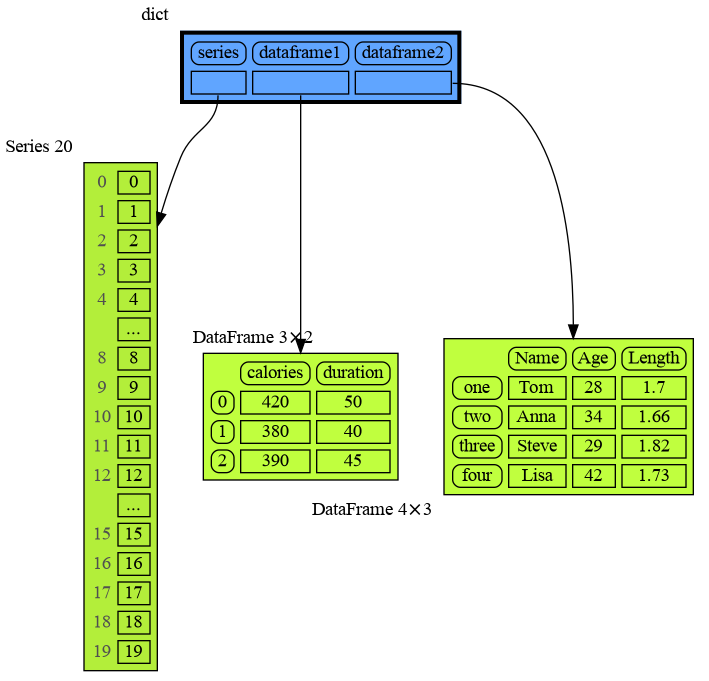
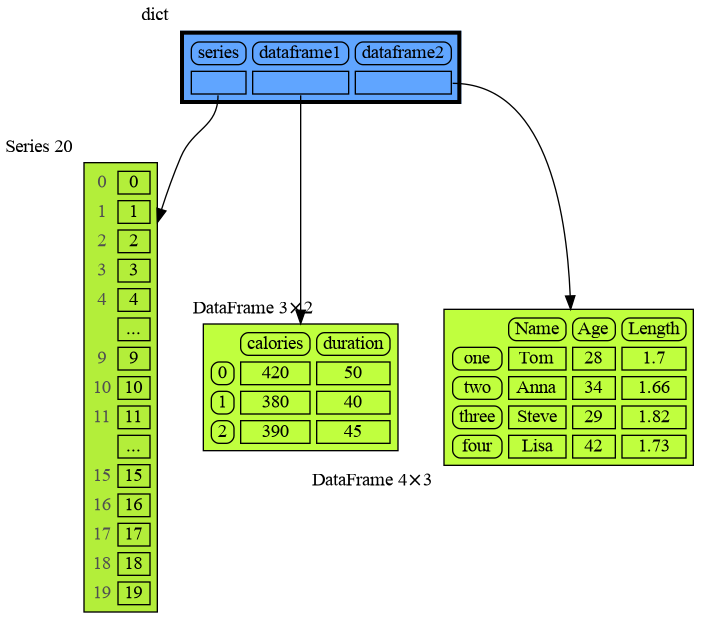
introspection depth control added

diff --git a/memory_graph/config_default.py b/memory_graph/config_default.py
@@ -16,15 +16,11 @@ import memory_graph.utils as utils
 
 import types
 
-""" The maximum depth of nodes in the graph. When the graph gets too big set this to a small positive number. A `✂` symbol indictes where the graph is cut short. """
-config.max_graph_depth = 12
-config.graph_cut_symbol = '✂'
-config.max_missing_edges = 3
 
 """ The maximum length of strings shown in the graph. Longer strings will be truncated. """
 config.max_string_length = 42
 
-""" The number of references keeping child nodes in order versus other references pullen them out. """
+""" The number of references keeping child nodes in order versus other references pulling them out. """
 config.graph_stability = 10
 
 """ Types that by default will not have references pointing to them in the graph but instead will be visualized in the node of their parent. """
@@ -94,7 +90,19 @@ config.type_to_vertical_orientation = {
 
 """ Slicer objects for different types. """
 config.type_to_slicer = {
-    Node_Linear: Slicer(5,5,5),
-    Node_Key_Value: Slicer(5,5,5),
-    Node_Table: (Slicer(3,3,3), Slicer(3,3)),
+    Node_Linear: Slicer(5,3,5),
+    Node_Key_Value: Slicer(5,3,5),
+    Node_Table: (Slicer(3,2,3), Slicer(3,2,3)),
 }
+
+""" The maximum depth of nodes in the graph. When the graph gets too big set this to a small positive number. A `✂` symbol indictes where the graph is cut short. """
+config.max_graph_depth = 12
+config.graph_cut_symbol = '✂'
+
+
+""" Maximum introspection depth for different types. """
+config.type_to_depth = {
+    }
+
+""" Maximum number of missing edges that are shown. """
+config.max_missing_edges = 2

diff --git a/memory_graph/memory_to_nodes.py b/memory_graph/memory_to_nodes.py
@@ -45,6 +45,13 @@ def read_nodes(data):
 
 # --------------------------------------------------------------------------------------------
 
+def get_max_type_depth(node_id, node):
+    if node_id in config.type_to_depth:
+        return config.type_to_depth[node_id]
+    elif node.get_type() in config.type_to_depth:
+        return config.type_to_depth[node.get_type()]
+    return None
+
 def slice_nodes(nodes, root_id, max_graph_depth):
 
     def slice_nodes_recursive(nodes, node_id, id_to_slices, max_graph_depth):
@@ -61,6 +68,9 @@ def slice_nodes(nodes, root_id, max_graph_depth):
                 id_to_slices[node_id] = slices
                 if not node.is_hidden_node():
                     max_graph_depth -= 1
+                max_type_depth = get_max_type_depth(node_id, node)
+                if max_type_depth:
+                    max_graph_depth = max_type_depth
                 for index in slices:
                     slice_nodes_recursive(nodes, id(children[index]), id_to_slices, max_graph_depth)
     id_to_slices = {}

diff --git a/images/introspect_depth.py b/images/introspect_depth.py
@@ -1,0 +1,43 @@
+import memory_graph as mg
+
+class Base:
+
+    def __init__(self, n):
+        self.elements = [1]
+        iter = self.elements
+        for i in range(2,n):
+            iter.append([i])
+            iter = iter[-1]
+
+    def get_last(self):
+        iter = self.elements
+        while len(iter)>1:
+            iter = iter[-1]
+        return iter
+            
+class A(Base):
+
+    def __init__(self, n):
+        super().__init__(n)
+
+class B(Base):
+
+    def __init__(self, n):
+        super().__init__(n)
+
+class C(Base):
+
+    def __init__(self, n):
+        super().__init__(n)
+
+a = A(6)
+b1 = B(6)
+b2 = B(6)
+c = C(6)
+
+x = ['x']
+b2.get_last().append(x)
+
+mg.config.type_to_depth[B] = 3
+mg.config.type_to_depth[id(c)] = 2
+mg.render(locals(), 'introspect_depth.png')

diff --git a/memory_graph/config.py b/memory_graph/config.py
@@ -4,9 +4,7 @@
 
 """ Configuration file for the graph visualizer. The configuration values are set later by the 'config_default.py' file. """
 
-max_graph_depth = None
-graph_cut_symbol = None
-max_missing_edges = None
+
 max_string_length = None
 graph_stability = None
 
@@ -29,3 +27,9 @@ type_to_color = { }
 type_to_vertical_orientation = { }
 
 type_to_slicer = { }
+
+max_graph_depth = None
+graph_cut_symbol = None
+max_missing_edges = None
+
+type_to_depth = { }

diff --git a/README.md b/README.md
@@ -507,29 +507,39 @@ for i in range(n):
 # Configuration #
 Different aspects of memory_graph can be configured. The default configuration is reset by importing 'memory_graph.config_default'.
 
-- ***mg.config.max_graph_depth*** : int
-  - The maxium depth of the graph with default value 12. A `✂` (scissor) symbol indicates where the graph is cut short. Dashed references indicate that there are more references to a node than are shown.
-
 - ***mg.config.max_string_length*** : int
   - The maximum length of strings shown in the graph. Longer strings will be truncated.
 
-- ***mg.config.not_node_types*** : set
+- ***mg.config.not_node_types*** : set[type]
   - Holds all types for which no seperate node is drawn but that instead are shown as elements in their parent Node.
 
-- ***mg.config.no_child_references_types*** : set
+- ***mg.config.no_child_references_types*** : set[type]
   - The set of key_value types that don't draw references to their direct childeren but have their children shown as elements of their node.
 
-- ***mg.config.type_to_node*** : dict
+- ***mg.config.type_to_node*** : dict[type, fun(data) -> Node]
   - Determines how a data types is converted to a Node (sub)class for visualization in the graph.
 
-- ***mg.config.type_to_color*** : dict
-  - Maps each type to the [graphviz color](https://graphviz.org/doc/info/colors.html) it gets in the graph. 
+- ***mg.config.type_to_color*** : dict[type, color]
+  - Maps a type to the [graphviz color](https://graphviz.org/doc/info/colors.html) it gets in the graph. 
 
-- ***mg.config.type_to_vertical_orientation*** : dict
-  - Maps each type to its orientation. Use 'True' for vertical and 'False' for horizontal. If not specified Node_Linear and Node_Key_Value are vertical unless they have references to children.
+- ***mg.config.type_to_vertical_orientation*** : dict[type, bool]
+  - Maps a type to its orientation. Use 'True' for vertical and 'False' for horizontal. If not specified Node_Linear and Node_Key_Value are vertical unless they have references to children.
 
-- ***mg.config.type_to_slicer*** : dict
-  - Maps each type to a Slicer. A slicer determines how many elements of a data type are shown in the graph to prevent the graph from getting too big. 'Slicer()' does no slicing, 'Slicer(1,2,3)' shows just 1 element at the beginning, 2 in the middle, and 3 at the end.
+- ***mg.config.type_to_slicer*** : dict[type, int]
+  - Maps a type to a Slicer. A slicer determines how many elements of a data type are shown in the graph to prevent the graph from getting too big. 'Slicer()' does no slicing, 'Slicer(1,2,3)' shows just 1 element at the beginning, 2 in the middle, and 3 at the end.
+
+- ***mg.config.max_graph_depth*** : int
+  - The maxium depth of the graph with default value 12.
+
+- ***config.graph_cut_symbol*** : str
+  - The symbol indicating where the graph is cut short with default `✂`.
+  
+- ***mg.config.type_to_depth*** : dict[type, int]
+  - Maps a type to graph depth to limit the graph size.
+
+- ***max_missing_edges*** : int
+  - Maximum number of missing edges that are shown with default value 2. Dashed references are used to indicate that there are more references to a node than are shown.
+
 
 ## Simplified Graph ##
 Memory_graph simplifies the visualization (and the viewer's mental model) by **not** showing separate nodes for immutable types like `bool`, `int`, `float`, `complex`, and `str` by default. This simplification can sometimes be slightly misleading. As in the example below, after a shallow copy, lists `a` and `b` technically share their `int` values, but the graph makes it appear as though `a` and `b` each have their own copies. However, since `int` is immutable, this simplification will never lead to unexpected changes (changing `a` won’t affect `b`) so will never result in bugs.
@@ -743,6 +753,59 @@ mg.config.type_to_node[bintrees.avltree.Node] = lambda data: mg.node_table.Node_
 mg.show(locals())
 ```
 ![extension_numpy.png](https://raw.githubusercontent.com/bterwijn/memory_graph/main/images/avltree_table.png)
+
+
+# Introspection Depth #
+To limit the size of the graph the maximum depth of the graph is set by `mg.config.max_graph_depth`. Additionally for each type a depth can be set to further limit the graph, as is done for type `B` in the example below. Scissors indicate where the graph is cut. Alternatively the `id()` of a data elements can be used to further limit the graph, as is done for variable `c`.
+
+The value of variable `x` is shown as it is at depth 1 from the root of the graph, but as it can also be reached via `b2` that path need to be shown as well, so this overwrites the depth limit set for type `B`.
+
+```python
+import memory_graph as mg
+
+class Base:
+
+    def __init__(self, n):
+        self.elements = [1]
+        iter = self.elements
+        for i in range(2,n):
+            iter.append([i])
+            iter = iter[-1]
+
+    def get_last(self):
+        iter = self.elements
+        while len(iter)>1:
+            iter = iter[-1]
+        return iter
+            
+class A(Base):
+
+    def __init__(self, n):
+        super().__init__(n)
+
+class B(Base):
+
+    def __init__(self, n):
+        super().__init__(n)
+
+class C(Base):
+
+    def __init__(self, n):
+        super().__init__(n)
+
+a = A(6)
+b1 = B(6)
+b2 = B(6)
+c = C(6)
+
+x = ['x']
+b2.get_last().append(x)
+
+mg.config.type_to_depth[B] = 3
+mg.config.type_to_depth[id(c)] = 2
+mg.show(locals())
+```
+![extension_numpy.png](https://raw.githubusercontent.com/bterwijn/memory_graph/main/images/introspect_depth.png)
 
 
 # Jupyter Notebook #
